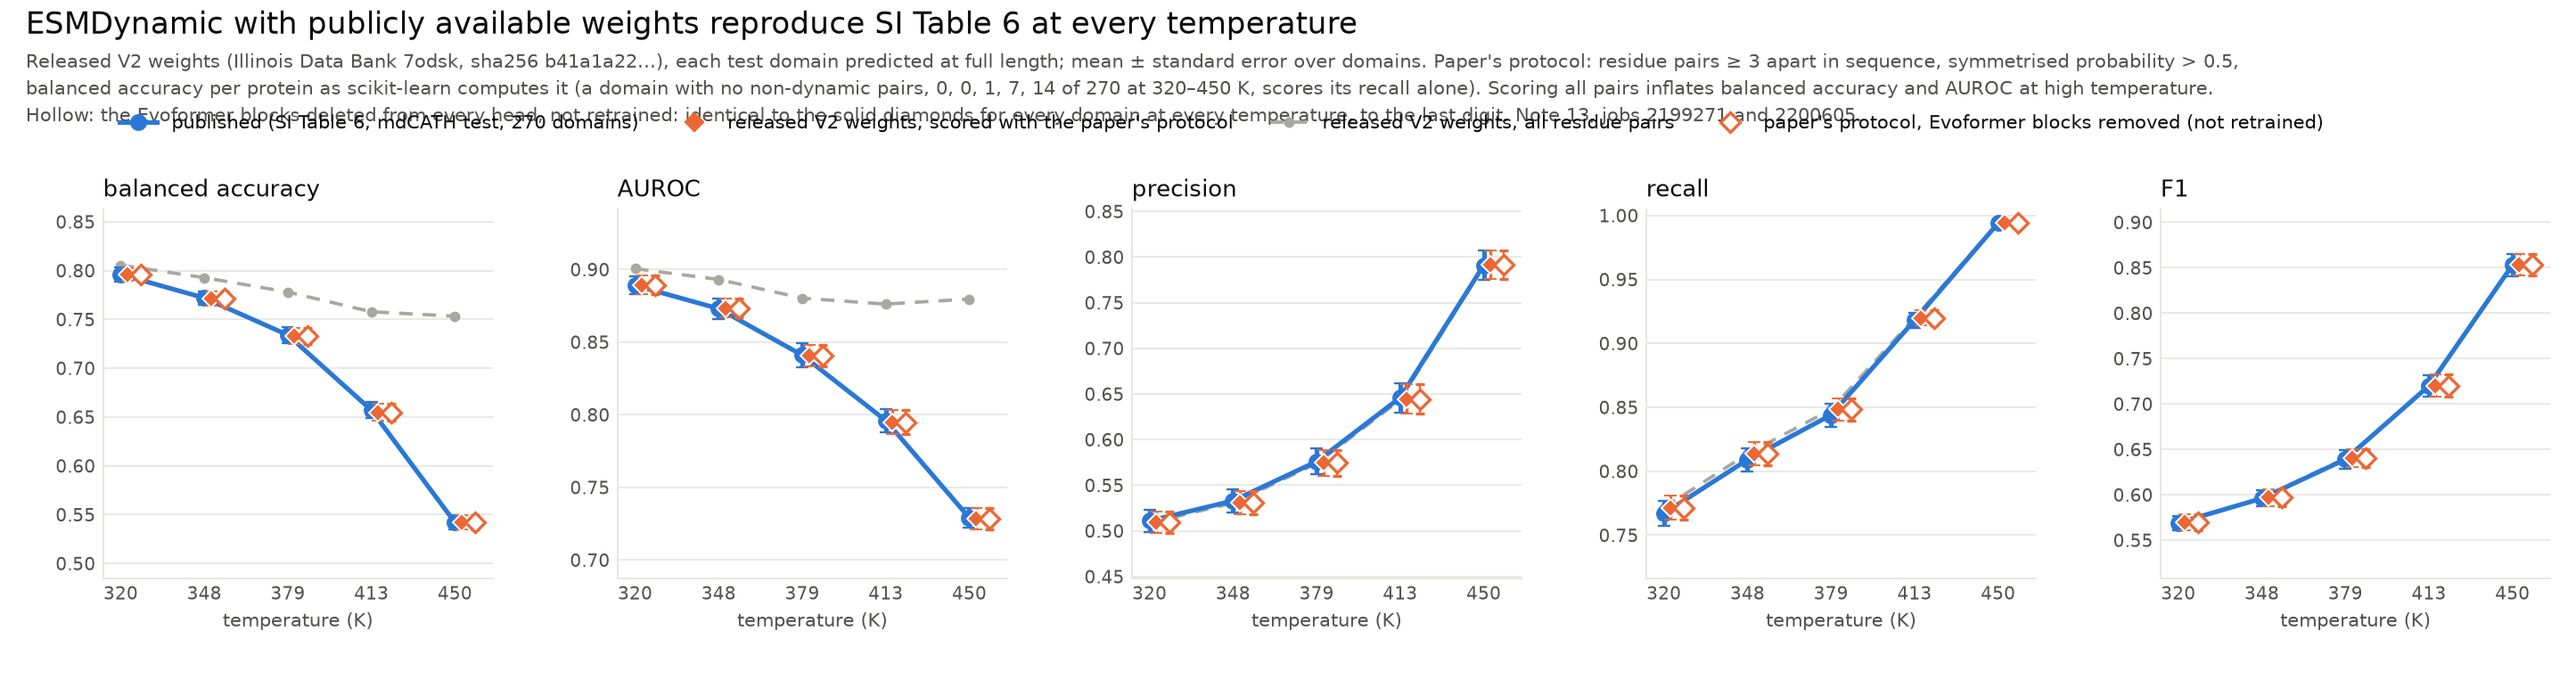
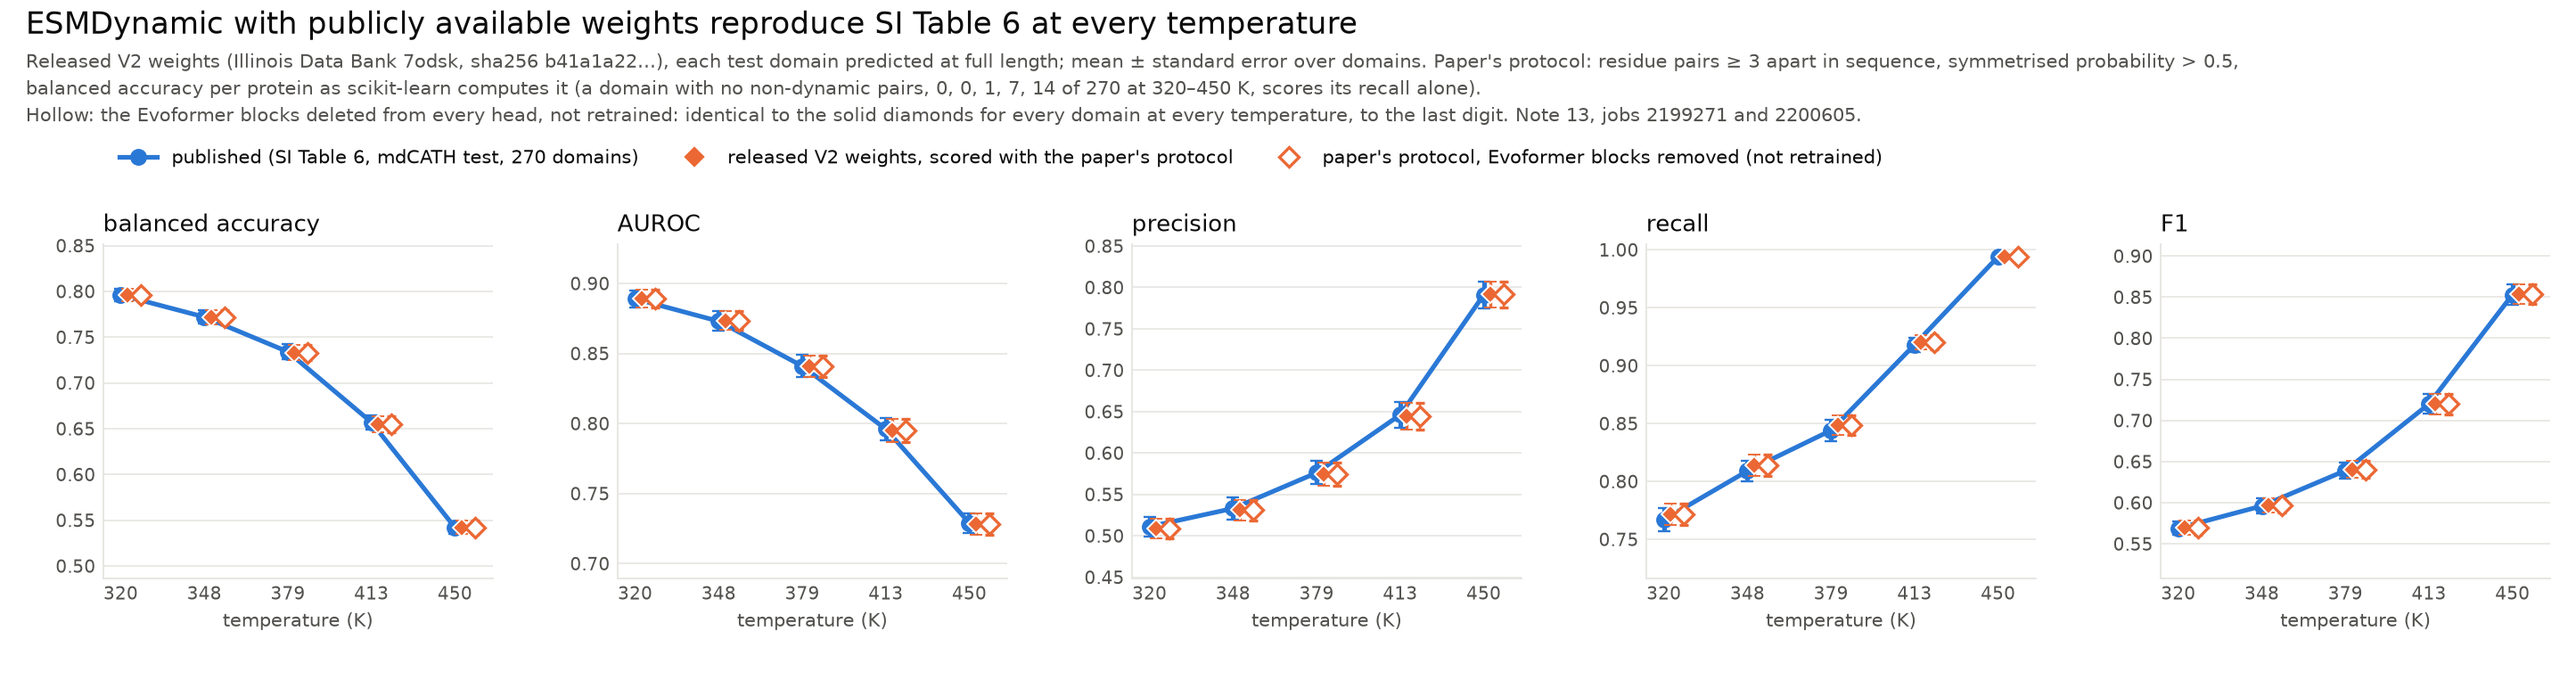
investigation: drop the all-pairs (grey) series from both reproduction figures

diff --git a/investigation/scripts/plot_si_table6_reproduction.py b/investigation/scripts/plot_si_table6_reproduction.py
@@ -79,13 +79,11 @@ def main():
     import matplotlib.pyplot as plt
 
     fig, axes = plt.subplots(1, 5, figsize=(17, 4.6), facecolor="white")
-    fig.subplots_adjust(top=0.70, bottom=0.17, left=0.04, right=0.99, wspace=0.32)
+    fig.subplots_adjust(top=0.65, bottom=0.17, left=0.04, right=0.99, wspace=0.32)
     x = np.arange(len(TEMPS))
     for ax, m in zip(axes, PUBLISHED):
         pm, ps = zip(*PUBLISHED[m])
         om, os_ = zip(*ours[m])
-        am, _ = zip(*allp[m])
-        ax.plot(x, am, color=ALL, lw=1.6, ls=(0, (4, 3)), marker="o", ms=4, zorder=2)
         ax.errorbar(x, pm, yerr=ps, color=PUB, lw=2.2, marker="o", ms=7, capsize=3, zorder=3)
         ax.errorbar(x + 0.08, om, yerr=os_, color=OURS, lw=0, elinewidth=1.4, marker="D", ms=6,
                     capsize=3, zorder=4, mec="white", mew=0.8)
@@ -104,25 +102,25 @@ def main():
         for side in ("left", "bottom"):
             ax.spines[side].set_color(GRID)
         ax.tick_params(colors=INK_2, labelsize=8.5, length=0)
-        lo = min(min(pm), min(om), min(am))
-        hi = max(max(pm), max(om), max(am))
+        lo = min(min(pm), min(om))
+        hi = max(max(pm), max(om))
         pad = (hi - lo) * 0.18 + 0.01
         ax.set_ylim(lo - pad, min(1.0, hi + pad) if m != "recall" else 1.005)
     from matplotlib.lines import Line2D
     fig.legend(handles=[
         Line2D([], [], color=PUB, lw=2.2, marker="o", ms=7, label="published (SI Table 6, mdCATH test, 270 domains)"),
         Line2D([], [], color=OURS, lw=0, marker="D", ms=6, label="released V2 weights, scored with the paper's protocol"),
-        Line2D([], [], color=ALL, lw=1.6, ls=(0, (4, 3)), marker="o", ms=4, label="released V2 weights, all residue pairs")]
+        ]
         + ([Line2D([], [], color=OURS, lw=0, marker="D", ms=6.5, mfc="white", mew=1.4,
                    label="paper's protocol, Evoformer blocks removed (not retrained)")] if noevo is not None else []),
-        loc="upper left", bbox_to_anchor=(0.04, 0.86), ncol=4 if noevo is not None else 3, frameon=False, fontsize=8.8 if noevo is not None else 9.2, labelcolor=INK)
+        loc="upper left", bbox_to_anchor=(0.04, 0.81), ncol=4 if noevo is not None else 3, frameon=False, fontsize=8.8 if noevo is not None else 9.2, labelcolor=INK)
     fig.text(0.01, 0.985, "ESMDynamic with publicly available weights reproduce SI Table 6 at every temperature",
              fontsize=14.5, color=INK, va="top")
     fig.text(0.01, 0.93, "Released V2 weights (Illinois Data Bank 7odsk, sha256 b41a1a22…), each test domain predicted at full "
              "length; mean ± standard error over domains. Paper's protocol: residue pairs ≥ 3 apart in sequence, symmetrised "
              "probability > 0.5,\nbalanced accuracy per protein as scikit-learn computes it (a domain with no non-dynamic "
              f"pairs, {', '.join(str(n) for n in nonneg)} of 270 at 320–450 K, scores its recall alone). "
-             "Scoring all pairs inflates balanced accuracy and AUROC at high temperature.\nHollow: the Evoformer blocks deleted from every head, not retrained: identical to the solid diamonds for every domain at every temperature, to the last digit. Note 13, jobs 2199271 and 2200605.",
+             "\nHollow: the Evoformer blocks deleted from every head, not retrained: identical to the solid diamonds for every domain at every temperature, to the last digit. Note 13, jobs 2199271 and 2200605.",
              fontsize=8.8, color=INK_2, va="top", linespacing=1.45)
     out = Path(args.out)
     out.parent.mkdir(parents=True, exist_ok=True)

diff --git a/investigation/scripts/plot_atlas_table2_reproduction.py b/investigation/scripts/plot_atlas_table2_reproduction.py
@@ -51,7 +51,6 @@ def main():
     if Path(args.noevo).exists():
         noevo = json.loads(Path(args.noevo).read_text())["summary"]["crop256/unsym/320K"]
         series.append(("white", OURS, lambda m: (noevo[m]["mean"], noevo[m]["se"])))
-    series.append((ALL, None, lambda m: (all_pairs[m]["mean"], all_pairs[m]["se"])))
     for ax, (m, title) in zip(axes, METRICS):
         vals = [get(m) for _, _, get in series]
         top = max(v + se for v, se in vals)
@@ -75,7 +74,7 @@ def main():
     from matplotlib.patches import Patch
     fig.legend(handles=[Patch(color=PUB, label="published (Table 2, ATLAS test, 82 chains)"),
                         Patch(color=OURS, label="released V2 weights, scored with the protocol that reproduces the paper"),
-                        Patch(color=ALL, label="released V2 weights, full length, all residue pairs")]
+                        ]
                + ([Patch(fc="white", ec=OURS, hatch="////", label="protocol as orange, Evoformer blocks removed (not retrained)")]
                   if noevo is not None else []),
                loc="upper left", bbox_to_anchor=(0.035, 0.86), ncol=4 if noevo is not None else 3, frameon=False,
@@ -83,8 +82,8 @@ def main():
     fig.text(0.01, 0.985, "The downloaded ESMDynamic weights reproduce Table 2 (ATLAS)", fontsize=14.5, color=INK, va="top")
     fig.text(0.01, 0.93, "Released V2 weights (Illinois Data Bank 7odsk, sha256 b41a1a22…), 320 K output against the 300 K "
              "ATLAS ensembles; mean ± standard error over 82 chains. Orange: scored as train.py scores (256-residue random "
-             "crops,\nraw logits > 0.5), the only protocol that matches all six metrics within one standard error. Grey: "
-             "full-length chains, symmetrised probability > 0.5, all residue pairs (as in the mdCATH figure). Hatched: the Evoformer\nblocks deleted from every head, not retrained: identical to orange for every chain, to the last digit. Note 12, jobs 2158167 and 2200604.",
+             "crops,\nraw logits > 0.5), the only protocol that matches all six metrics within one standard error. "
+             "Hatched: the Evoformer blocks deleted from every head, not retrained: identical to orange for every chain, to the last digit. Note 12, jobs 2158167 and 2200604.",
              fontsize=8.8, color=INK_2, va="top", linespacing=1.45)
     out = Path(args.out)
     out.parent.mkdir(parents=True, exist_ok=True)
